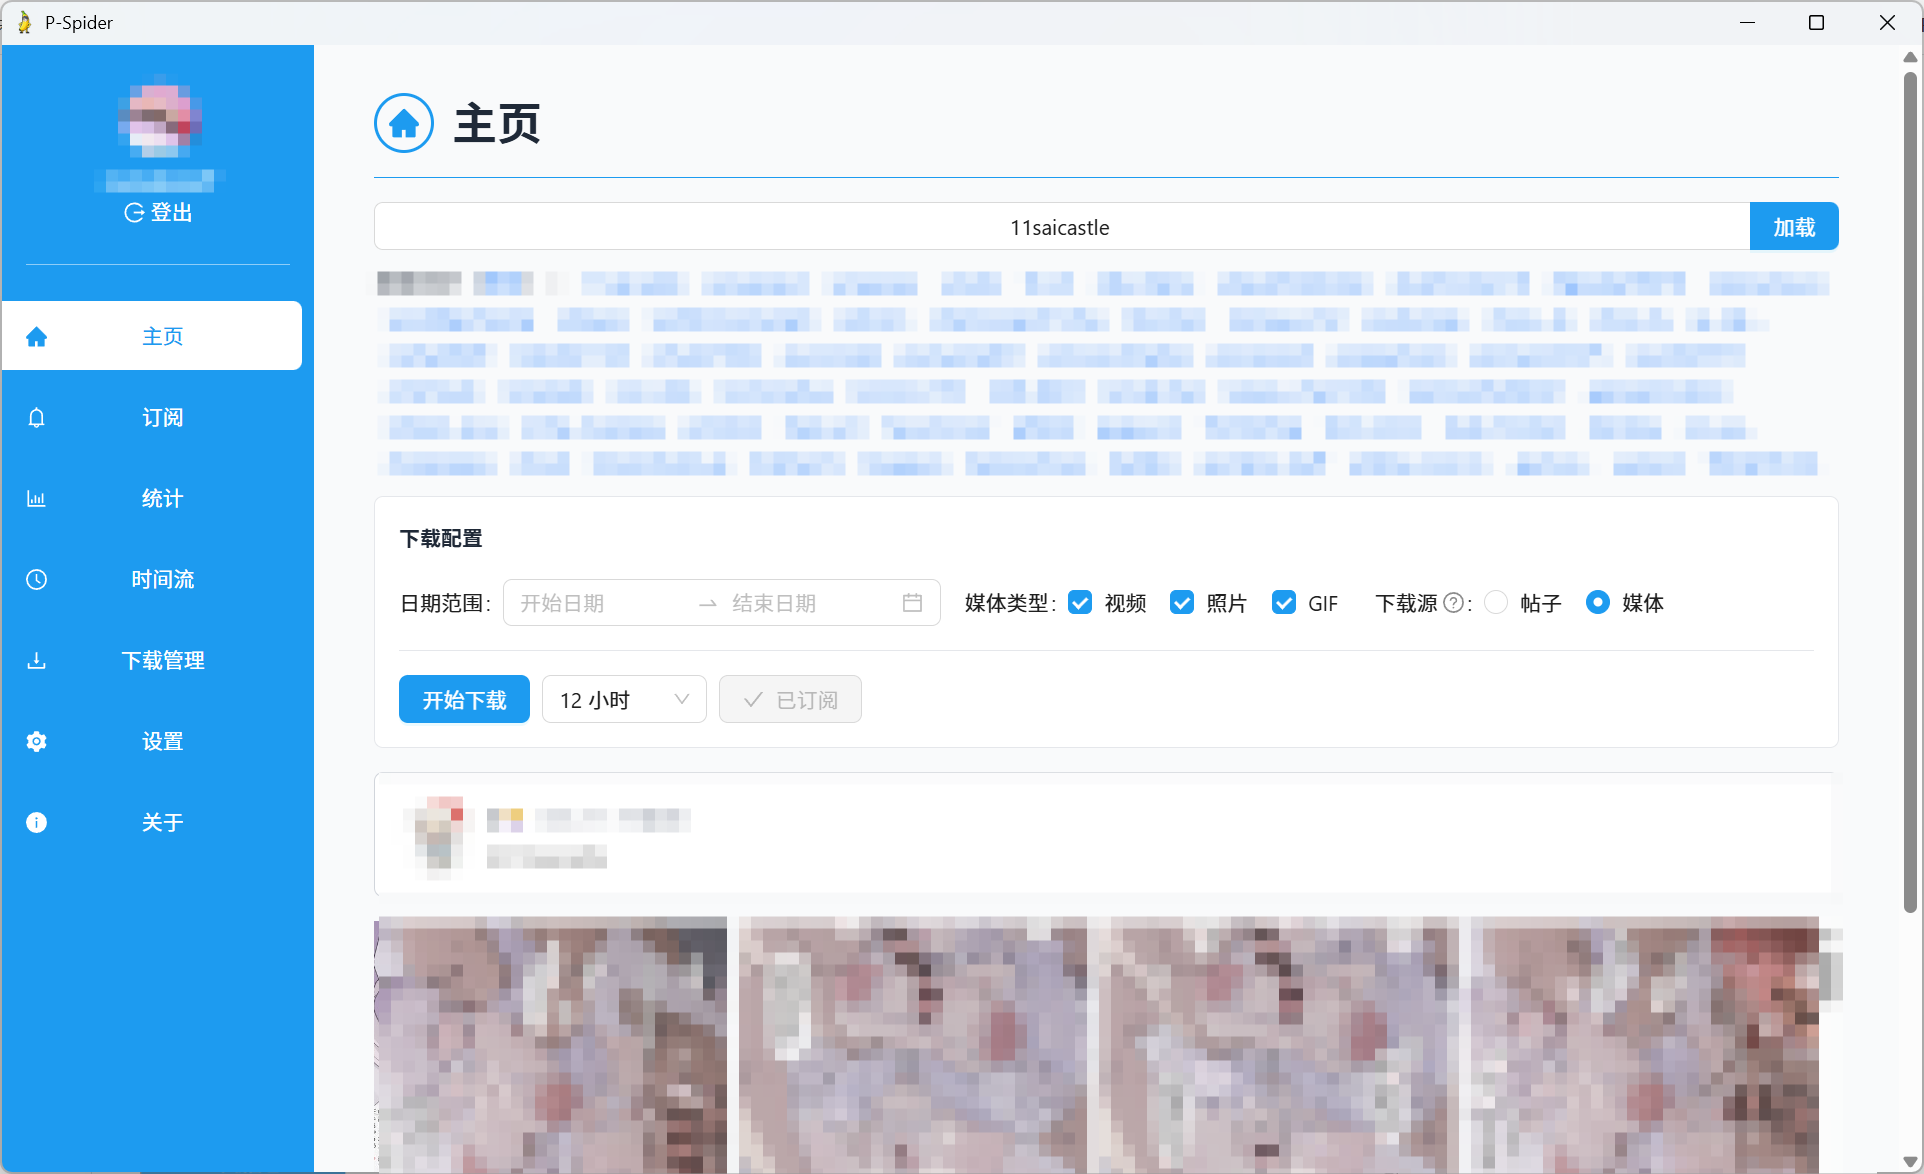
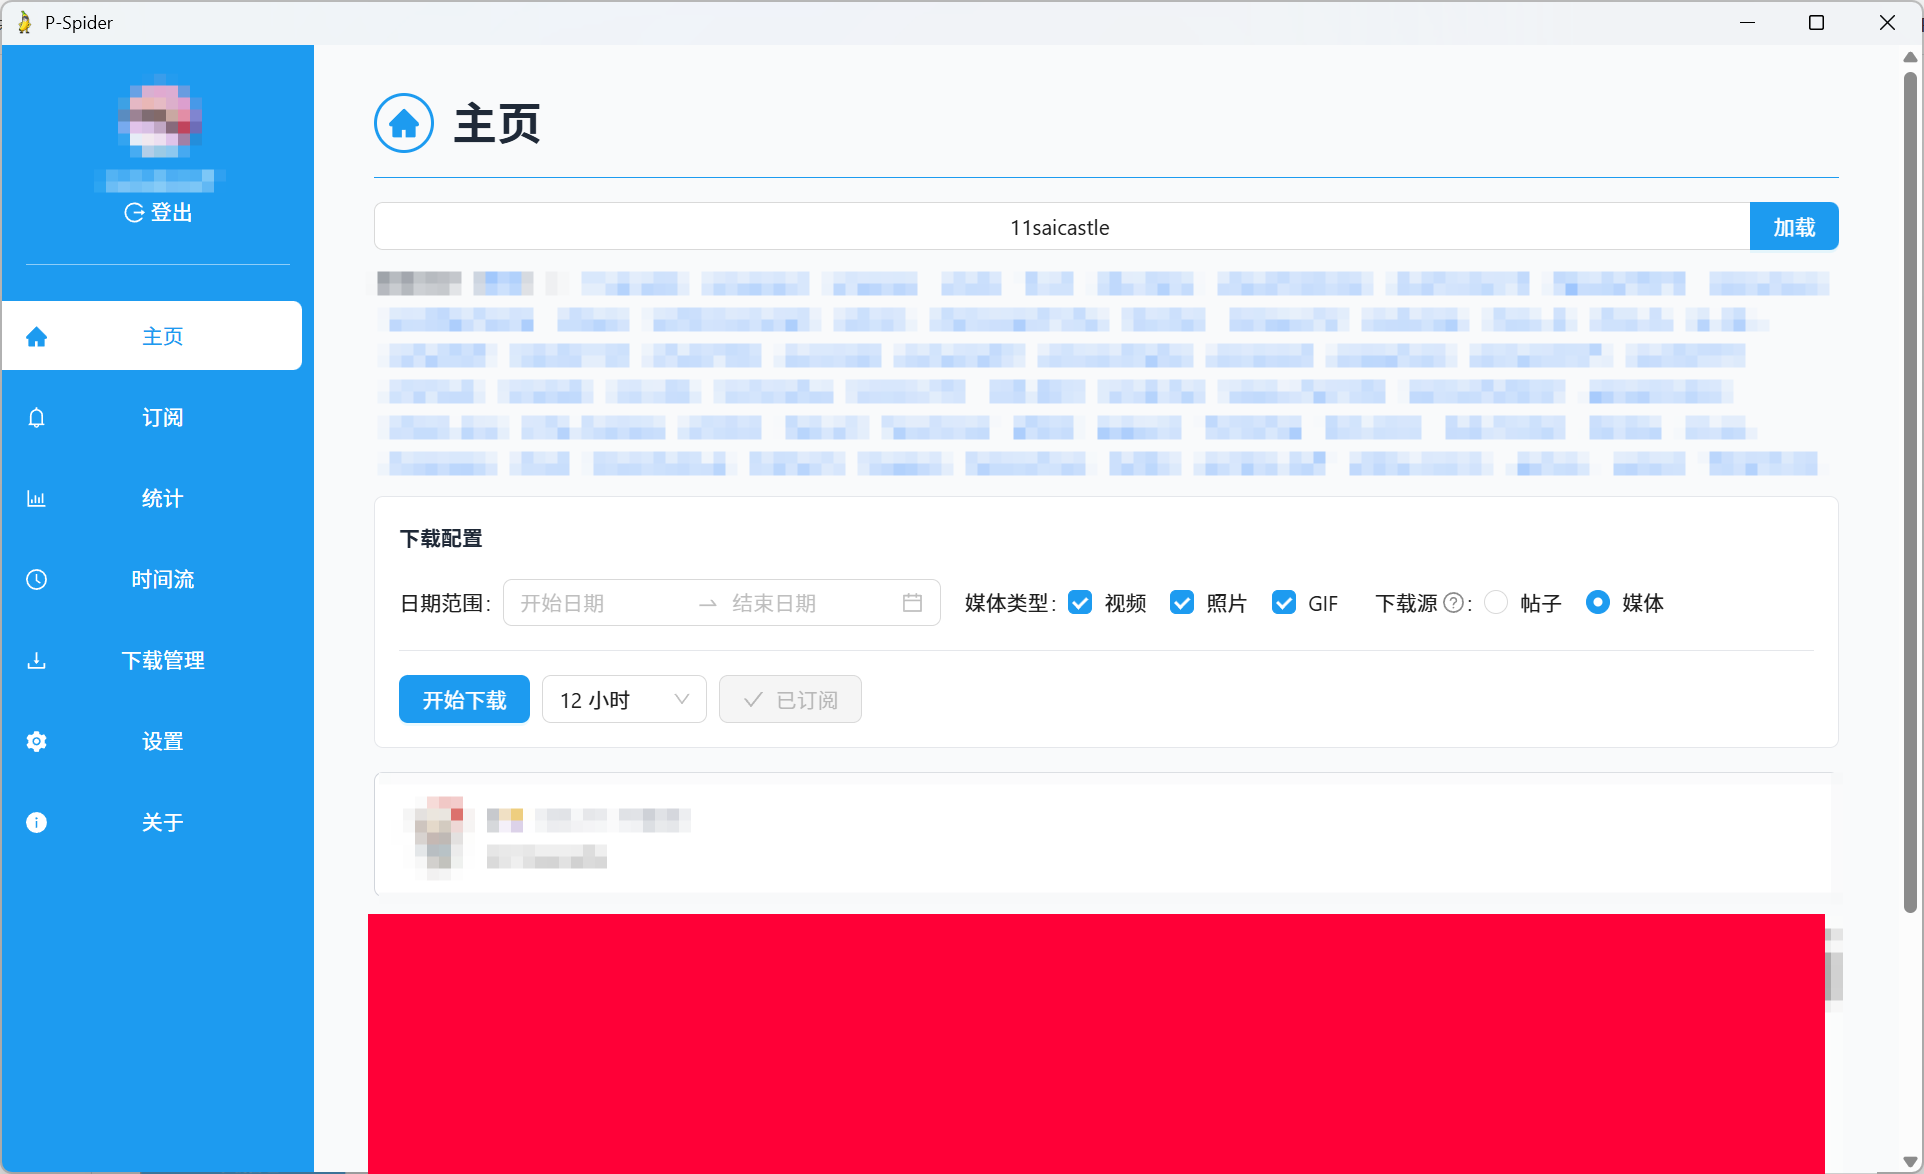
fix: 修复下载任务重试丢失/爬取死循环/检索竞态等健壮性问题，aria2 并发控制，版本 1.1.1

Changed region(s): [[0.1871, 0.7666, 0.9667, 1.0]]

diff --git a/src/stores/download.ts b/src/stores/download.ts
@@ -16,12 +16,14 @@ import {
   PlatformMedia,
   PlatformPost,
   PlatformSource,
+  withCreator,
 } from '../platforms';
 import { toPlatformPost } from '../platforms/twitter';
 import { unicodeFilenamify } from '../utils/unicode';
 import dayjs from 'dayjs';
 import { notification as antNotification } from 'antd';
 import { EventEmitter } from '../utils/event';
+import { delay } from '../utils';
 
 let _log: ICategoriedLogger;
 
@@ -158,6 +160,21 @@ async function prepareDownloadTask({
 
 const creationTaskAbortControllerMap = new Map<string, AbortController>();
 
+/** 构造 aria2 addUri 的选项：归档站下载加浏览器 UA + Referer，降低 Cloudflare 限流（429） */
+function aria2DownloadOptions(task: DownloadTask): Record<string, any> {
+  const options: Record<string, any> = {
+    dir: task.dir,
+    out: task.fileName,
+  };
+  if (task.source !== 'twitter') {
+    options.header = [
+      'User-Agent: Mozilla/5.0 (Windows NT 10.0; Win64; x64) AppleWebKit/537.36 (KHTML, like Gecko) Chrome/120.0.0.0 Safari/537.36',
+      'Referer: https://pawchive.pw/',
+    ];
+  }
+  return options;
+}
+
 export interface DownloadStore {
   currentTab: string;
   setCurrentTab: (tab: string) => void;
@@ -202,10 +219,11 @@ export const useDownloadStore = create<DownloadStore>((set, get) => ({
   createDownloadTask: async (params) => {
     const task = await prepareDownloadTask(params);
 
-    const gid = await aria2.invoke('aria2.addUri', [task.downloadUrl], {
-      dir: task.dir,
-      out: task.fileName,
-    });
+    const gid = await aria2.invoke(
+      'aria2.addUri',
+      [task.downloadUrl],
+      aria2DownloadOptions(task),
+    );
     task.gid = gid;
 
     const status = await aria2.tellStatus(task.gid);
@@ -277,13 +295,7 @@ export const useDownloadStore = create<DownloadStore>((set, get) => ({
       await aria2.batchInvoke(
         tasks.map((task) => ({
           methodName: 'aria2.addUri',
-          params: [
-            [task.downloadUrl],
-            {
-              dir: task.dir,
-              out: task.fileName,
-            },
-          ],
+          params: [[task.downloadUrl], aria2DownloadOptions(task)],
         })),
       )
     ).flat();
@@ -384,31 +396,68 @@ export const useDownloadStore = create<DownloadStore>((set, get) => ({
 
     if (status.status === 'error') {
       if (task.ariaRetryCountRemains > 0) {
-        log().warn(
-          `Task download failed, retry it. RetryCountRemains: ${task.ariaRetryCountRemains}`,
-          task,
-        );
-        removeDownloadTask(task.gid);
+        const errMsg = status.errorMessage || '';
+        try {
+          // Cloudflare 429 限流时退避再重试，避免重试风暴（更严重限流）
+          if (/429|Too Many/i.test(errMsg)) {
+            await delay(3000);
+          }
+          // 原图 404（pawchive 部分附件未标 preview_only 但原图未归档）：改用缩略图重试
+          const useThumb =
+            /Resource not found|status=404|404/i.test(errMsg) &&
+            !!task.media?.thumbUrl &&
+            task.downloadUrl !== task.media.thumbUrl;
+          const retryUrl: string = useThumb
+            ? task.media.thumbUrl!
+            : task.downloadUrl;
 
-        const newTask = await prepareDownloadTask({
-          source: task.source,
-          post: task.post,
-          media: task.media,
-        });
-        newTask.ariaRetryCountRemains = task.ariaRetryCountRemains - 1;
+          log().warn(
+            `Task download failed, retry it. RetryCountRemains: ${task.ariaRetryCountRemains}`,
+            { ...task, useThumb },
+          );
 
-        const gid = await aria2.invoke('aria2.addUri', [task.downloadUrl], {
-          dir: newTask.dir,
-          out: newTask.fileName,
-        });
-        newTask.gid = gid;
+          const newTask = await prepareDownloadTask({
+            source: task.source,
+            post: task.post,
+            media: task.media,
+          });
+          newTask.ariaRetryCountRemains = task.ariaRetryCountRemains - 1;
+          newTask.downloadUrl = retryUrl;
 
-        const status = await aria2.tellStatus(task.gid);
-        newTask.status = status.status;
+          const newGid = await aria2.invoke(
+            'aria2.addUri',
+            [retryUrl],
+            aria2DownloadOptions(newTask),
+          );
+          newTask.gid = newGid;
 
-        set({
-          downloadTasks: get().downloadTasks.concat(newTask),
-        });
+          // 用新 gid 查询（旧 gid 已被移除，查旧 gid 会抛错导致新任务丢失）
+          const newStatus = await aria2.tellStatus(newGid);
+          newTask.status = newStatus.status;
+
+          // 新任务成功加入后再移除旧任务，避免任何一步抛错导致任务从列表消失
+          removeDownloadTask(task.gid);
+          set({
+            downloadTasks: get().downloadTasks.concat(newTask),
+          });
+        } catch (retryErr) {
+          // 重试过程异常（prepare/addUri/tellStatus 抛错）：保留旧任务为错误状态，不丢失
+          log().error('Retry failed, keep task as error', {
+            gid: task.gid,
+            retryErr,
+          });
+          updateDownloadTask(
+            {
+              ...task,
+              status: AriaStatus.Error,
+              error:
+                typeof retryErr === 'string'
+                  ? retryErr
+                  : (retryErr as any)?.message || '重试失败',
+            },
+            now,
+          );
+        }
       } else {
         const newTask = await mergeAriaStatusToDownloadTask(status, task);
         const msg = '任务下载失败';
@@ -521,10 +570,12 @@ async function runCreationTask(task: CreationTask, abortSignal: AbortSignal) {
     const { posts, cursor } = await fetchPage(nextCursor);
     if (abortSignal.aborted) break;
     nextCursor = cursor;
-    now = R.last(posts)?.publishedAt || now;
+    // 本页最早帖时间作为推进基线；若本页全无发布时间则视为到底，避免死循环
+    const lastPub = R.last(posts)?.publishedAt;
+    now = lastPub || dayjs.unix(0);
     log().info('Now', now.format('YYYY-MM-DD'), 'next cursor', nextCursor);
     // fetchPosts 返回的帖子 creator 无 name，填充已解析的 creator（目录命名用创作者名）
-    const enrichedPosts = posts.map((p) => ({ ...p, creator: task.creator }));
+    const enrichedPosts = withCreator(posts, task.creator);
     const filteredPosts = enrichedPosts.filter(
       R.allPass([
         (post) => (post.medias ? post.medias.length >= 0 : false),

diff --git a/src/stores/archiver-browse.ts b/src/stores/archiver-browse.ts
@@ -5,6 +5,7 @@ import {
   PlatformCreator,
   PlatformPost,
   PlatformSource,
+  withCreator,
 } from '../platforms';
 
 /**
@@ -23,6 +24,9 @@ export const ARCHIVER_SOURCES: PlatformSource[] = [PAWCHIVE_SOURCE];
 
 /** pawchive 支持的原站 service */
 const COMMON_SERVICES = ['fanbox', 'patreon', 'discord'];
+
+/** 检索序号：快速连续检索时，慢响应不覆盖新结果（竞态保护） */
+let loadSeq = 0;
 
 export interface ArchiverSourceState {
   source: PlatformSource;
@@ -141,6 +145,7 @@ export const useArchiverBrowseStore = create<ArchiverBrowseStore>(
     hasMore: false,
 
     load: async (identifier) => {
+      const seq = ++loadSeq;
       const parsed = parseIdentifier(identifier);
       const id = parsed.id;
       let service = parsed.service;
@@ -151,6 +156,7 @@ export const useArchiverBrowseStore = create<ArchiverBrowseStore>(
         service = detected.service;
         knownCreator = detected.creator;
       }
+      if (seq !== loadSeq) return;
       const creatorKey = `${service}/${id}`;
       set({
         identifier,
@@ -179,6 +185,7 @@ export const useArchiverBrowseStore = create<ArchiverBrowseStore>(
           ]);
         }
       } catch (err: any) {
+        if (seq !== loadSeq) return;
         set({
           loading: false,
           creatorError:
@@ -186,9 +193,10 @@ export const useArchiverBrowseStore = create<ArchiverBrowseStore>(
         });
         return;
       }
+      if (seq !== loadSeq) return;
 
       // fetchPosts 返回的帖子 creator 无 name，用已解析的 creator 填充（目录命名用创作者名）
-      const enrichedPosts = page.posts.map((p) => ({ ...p, creator }));
+      const enrichedPosts = withCreator(page.posts, creator);
 
       set({
         creator,
@@ -208,6 +216,7 @@ export const useArchiverBrowseStore = create<ArchiverBrowseStore>(
     },
 
     loadMore: async () => {
+      const seq = loadSeq;
       const state = get();
       if (state.loadingMore || !state.creator) return;
       set({ loadingMore: true });
@@ -222,7 +231,7 @@ export const useArchiverBrowseStore = create<ArchiverBrowseStore>(
             const page = await adapter.fetchPosts(creatorId, s.cursor, 50);
             return {
               ...s,
-              posts: s.posts.concat(page.posts.map((p) => ({ ...p, creator }))),
+              posts: s.posts.concat(withCreator(page.posts, creator)),
               cursor: page.cursor,
             };
           } catch (err: any) {
@@ -234,6 +243,12 @@ export const useArchiverBrowseStore = create<ArchiverBrowseStore>(
           }
         }),
       );
+
+      // 期间发生了新检索，丢弃本次结果
+      if (seq !== loadSeq) {
+        set({ loadingMore: false });
+        return;
+      }
 
       const merged = mergePosts(next.map((s) => s.posts));
       set({

diff --git a/src/stores/subscription.ts b/src/stores/subscription.ts
@@ -8,7 +8,12 @@ import { Subscription } from '../interfaces/Subscription';
 import { TwitterPost } from '../interfaces/TwitterPost';
 import { getUser, getUserMedias } from '../twitter/api';
 import { aria2 } from '../utils/aria2';
-import { getAdapter, PlatformPost, PlatformSource } from '../platforms';
+import {
+  getAdapter,
+  PlatformPost,
+  PlatformSource,
+  withCreator,
+} from '../platforms';
 import { toPlatformMedia, toPlatformPost } from '../platforms/twitter';
 import { useAppStateStore } from './app-state';
 import {
@@ -391,7 +396,7 @@ async function checkArchiverSubscription(
     const creator = await adapter.resolveCreator(sub.username);
     const { posts } = await adapter.fetchPosts(creator.id, undefined, 20);
     // fetchPosts 返回的帖子 creator 无 name，填充已解析的 creator（目录命名用创作者名）
-    const enrichedPosts = posts.map((p) => ({ ...p, creator }));
+    const enrichedPosts = withCreator(posts, creator);
 
     if (!enrichedPosts || enrichedPosts.length === 0) {
       update({

diff --git a/src/platforms/archiver.ts b/src/platforms/archiver.ts
@@ -138,6 +138,18 @@ export interface ArchiverAdapterConfig {
   resolveCreatorByIdentifier: (identifier: string) => Promise<PlatformCreator>;
 }
 
+/**
+ * 给归档站拉取的帖子填充已解析的创作者。
+ * fetchPosts 返回的帖子 creator 只有 id/username（name 为空，目录命名需要），
+ * 消费方解析出 creator 后统一用本函数填充，避免各处手写 map。
+ */
+export function withCreator<T extends PlatformPost>(
+  posts: T[],
+  creator: PlatformCreator,
+): T[] {
+  return posts.map((p) => ({ ...p, creator }));
+}
+
 /** 解析订阅标识：service/user 二元组（user 为数字 id 或 slug） */
 export function parseIdentifier(identifier: string): {
   service: string;

diff --git a/src/utils/aria2.ts b/src/utils/aria2.ts
@@ -63,6 +63,9 @@ class Aria2 {
       this.#secret,
       '--rpc-listen-port',
       this.#port.toString(),
+      // 限制并发：避免大批量任务同时打同一域名触发 Cloudflare 掐断（429 / Download aborted）
+      '--max-concurrent-downloads=8',
+      '--max-connection-per-server=4',
     ];
     this.#command = Command.sidecar('binaries/aria2c', args);
     this.#log.info('Spawn with args:', args);

diff --git a/src/platforms/index.ts b/src/platforms/index.ts
@@ -5,6 +5,7 @@ import { pawchiveAdapter } from './pawchive';
 export * from './types';
 export { twitterAdapter, TWITTER_SOURCE } from './twitter';
 export { pawchiveAdapter, PAWCHIVE_SOURCE } from './pawchive';
+export { withCreator } from './archiver';
 
 const adapters: Partial<Record<PlatformSource, PlatformAdapter>> = {
   twitter: twitterAdapter,

diff --git a/DEVELOPMENT.md b/DEVELOPMENT.md
@@ -146,6 +146,12 @@ src-tauri/
 
 > 说明：更新检查已恢复（`src/github/api.ts` + `src/hooks/useCheckUpdate.ts`），指向 `mdo730/P-spider` 的 releases，按 `tag_name`（须带 `v` 前缀）与当前版本比较。
 > 已发布：**v1.1.0**（2026-08-28，Pawchive 平台 + 下载速度 + 多项修复），GitHub Description/Topics/README 已同步。
+> **1.1.1 地基修复（2026-09-01）**：
+> - `runCreationTask` 死循环防护：本页帖子全无发布时间时强制结束（不再卡 `now.isAfter(since)`）
+> - Pawchive 检索竞态保护：请求序号，快速连搜时慢响应不覆盖新结果
+> - creator 填充统一：`platforms/archiver.ts` 导出 `withCreator`，三处消费方统一调用（目录命名不再依赖手写 map）
+> - aria2 并发控制：`--max-concurrent-downloads=8 --max-connection-per-server=4`，缓解批量下载触发 Cloudflare 掐断（429 / Download aborted）
+> - 已知待改（建筑层，下轮）：errorCode 16 退避、缩略图/大文件下载体验细节
 
 ## 如何发布新版
 
